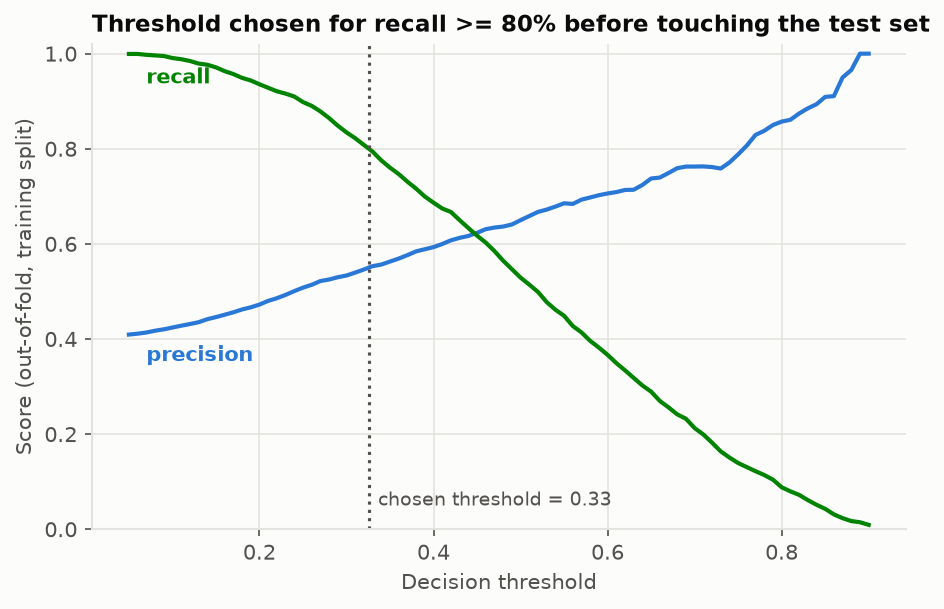
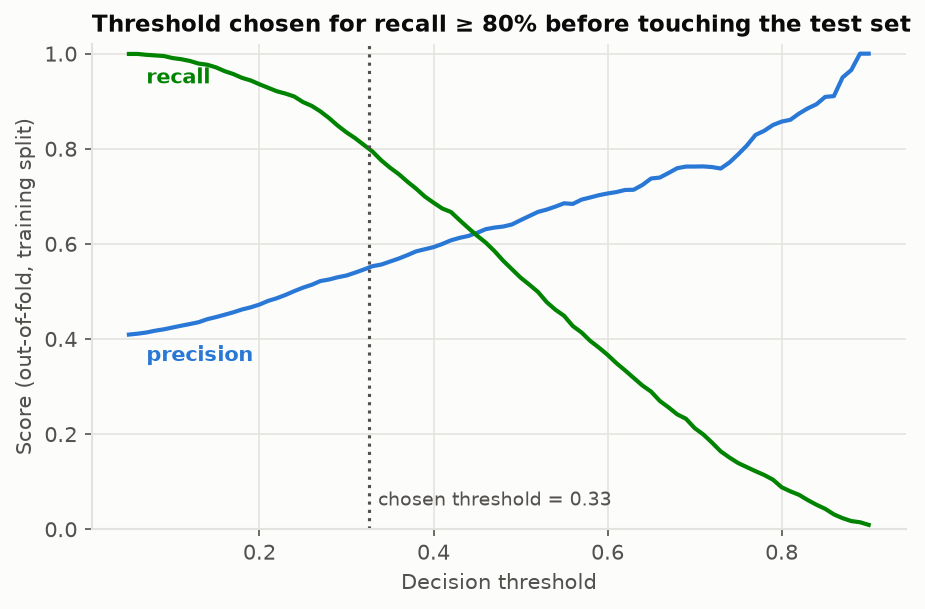
Swap >= for ≥ in the remaining two spots
validation_report.md (A>=90 bin) and fig_threshold.png's title. Neither has
nested parens, so no bracket change needed there.

diff --git a/src/data.py b/src/data.py
@@ -73,7 +73,7 @@ def validate(primary: pd.DataFrame, biased: pd.DataFrame, out_dir: Path) -> None
     bins = pd.cut(primary["Total_Score"], [0, 60, 70, 80, 90, 101],
                   labels=["F", "D", "C", "B", "A"], right=False)
     agreement = (bins.astype(str) == primary[config.TARGET_COL]).mean()
-    add(f"- 10-point bins (A>=90 ... F<60) reproduce Grade for {agreement:.1%} of rows.")
+    add(f"- 10-point bins (A≥90 ... F<60) reproduce Grade for {agreement:.1%} of rows.")
     add("- Implication: predicting Grade with the score components included is "
         "reconstructing an arithmetic formula, not learning about students.")
 

diff --git a/src/model.py b/src/model.py
@@ -227,7 +227,7 @@ def run(primary: pd.DataFrame, out_dir: Path) -> None:
     ax.set_xlabel("Decision threshold")
     ax.set_ylabel("Score (out-of-fold, training split)")
     ax.set_ylim(0, 1.02)
-    ax.set_title(f"Threshold chosen for recall >= {config.RECALL_TARGET:.0%} before touching the test set")
+    ax.set_title(f"Threshold chosen for recall ≥ {config.RECALL_TARGET:.0%} before touching the test set")
     fig.savefig(out_dir / "fig_threshold.png")
     plt.close(fig)
 

diff --git a/outputs/validation_report.md b/outputs/validation_report.md
@@ -25,7 +25,7 @@
 | B       | 80    | 89.97 |     638 |
 | A       | 90.09 | 95.09 |      16 |
 
-- 10-point bins (A>=90 ... F<60) reproduce Grade for 100.0% of rows.
+- 10-point bins (A≥90 ... F<60) reproduce Grade for 100.0% of rows.
 - Implication: predicting Grade with the score components included is reconstructing an arithmetic formula, not learning about students.
 
 ## Does Total_Score follow the documented weights?